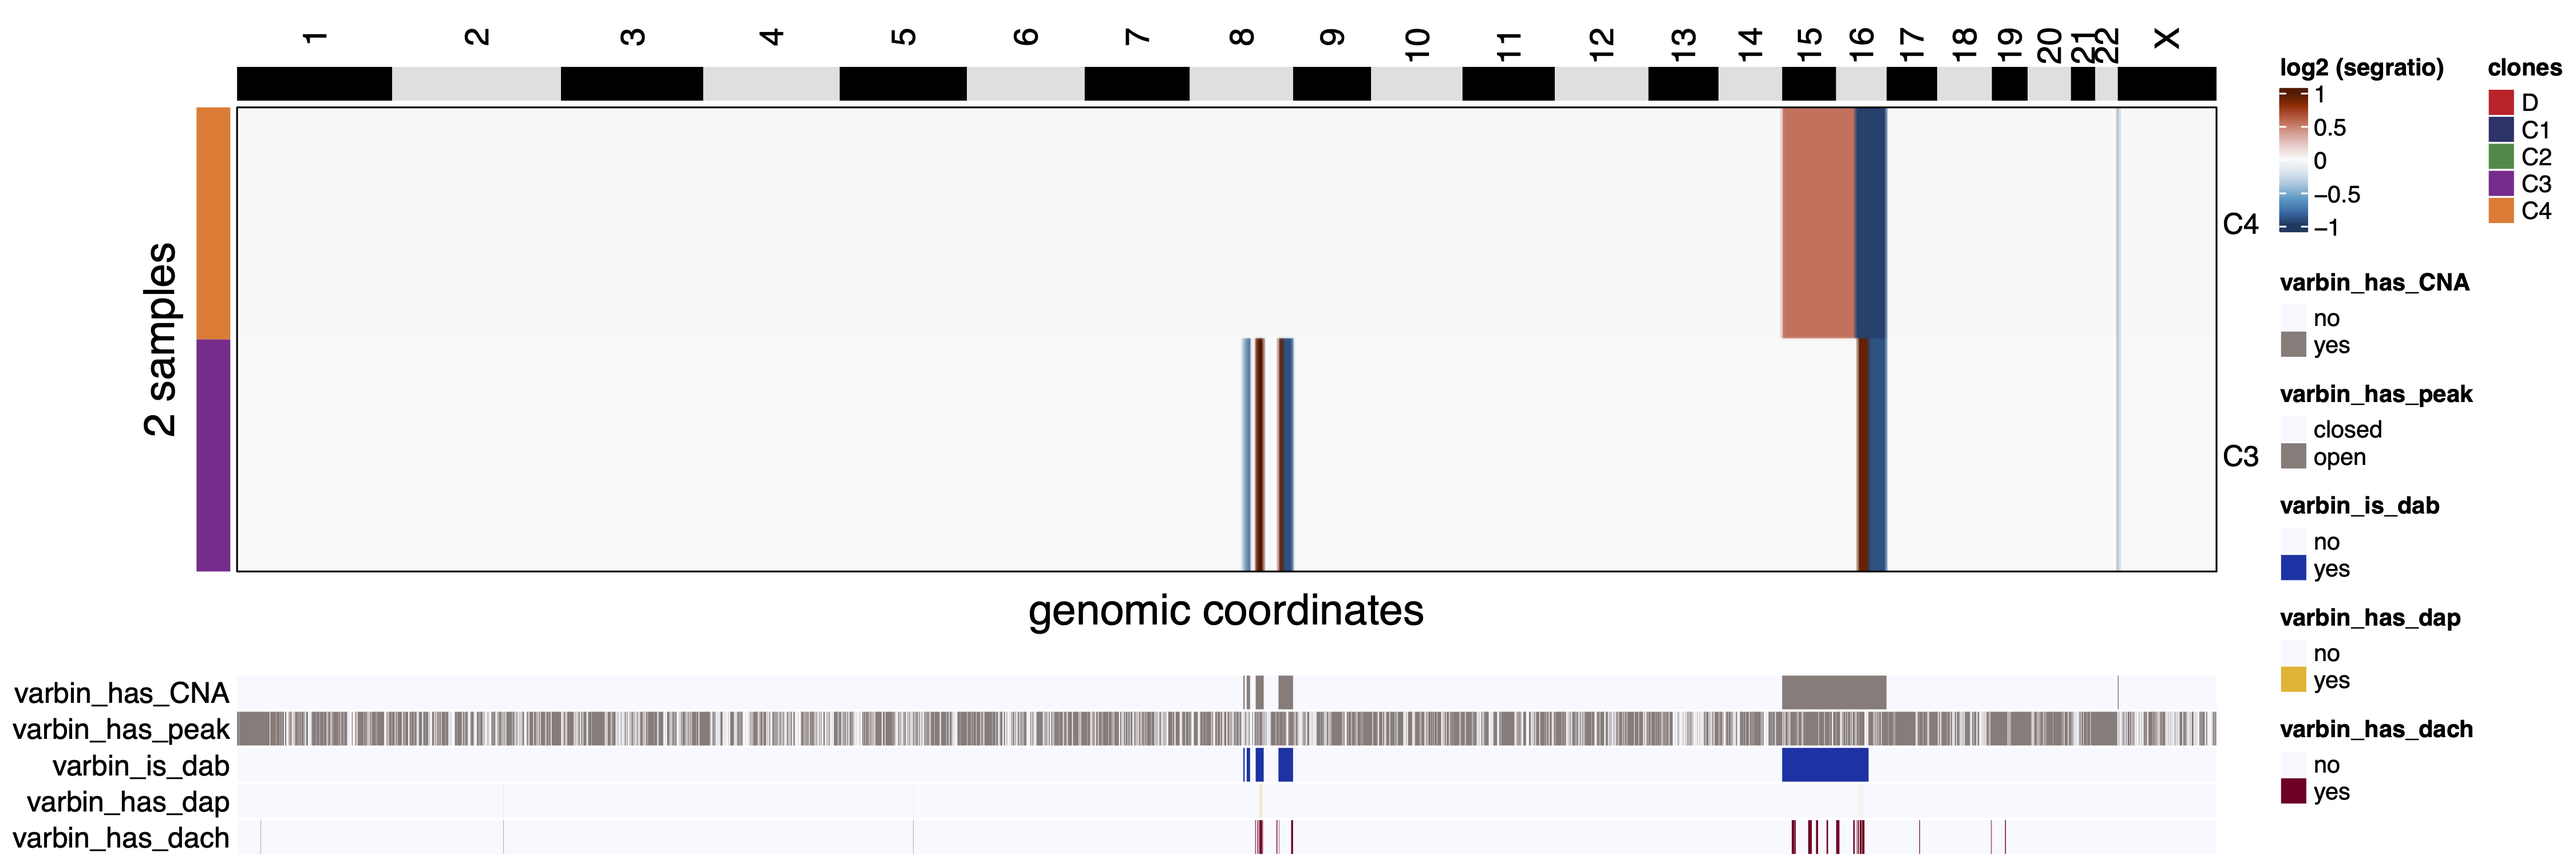
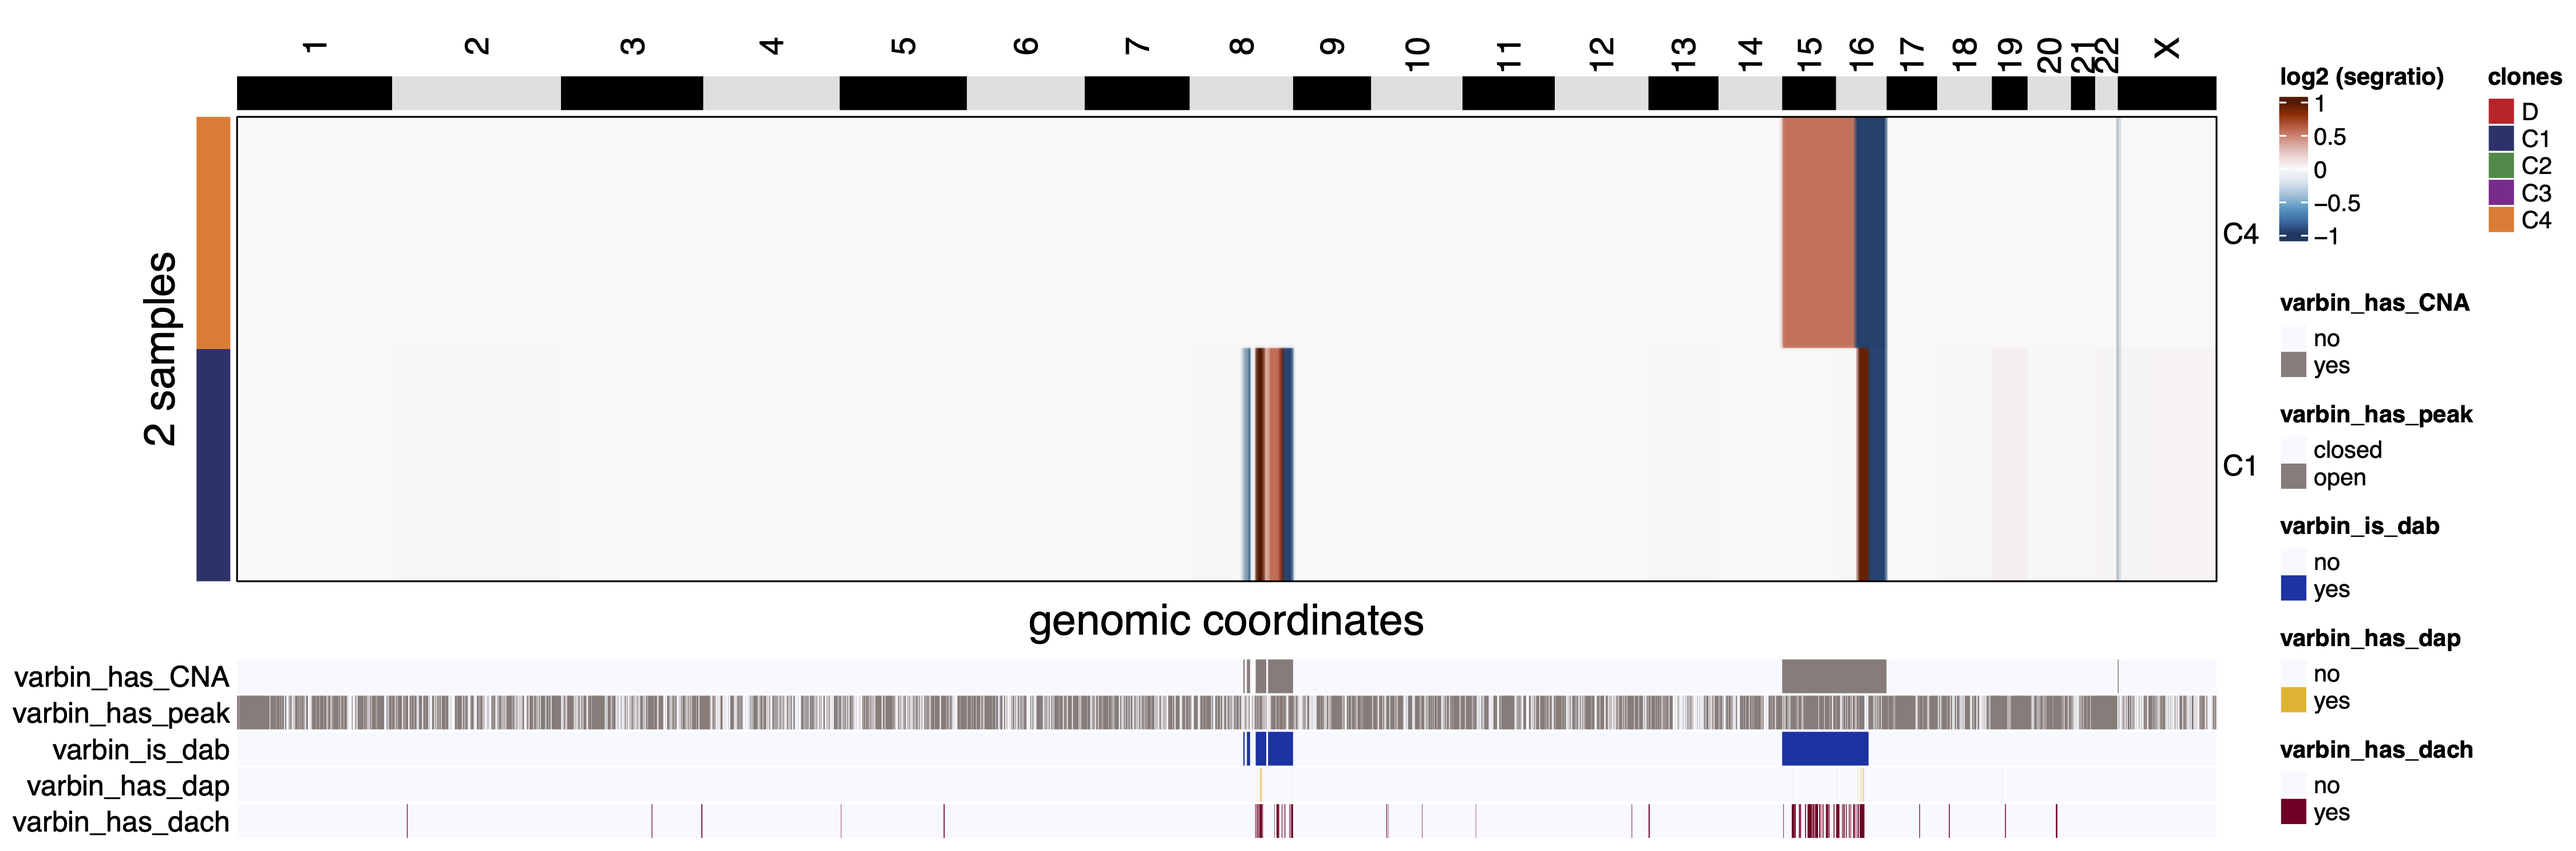
update md

diff --git a/tutorial/06.GtoE_EbyG.md b/tutorial/06.GtoE_EbyG.md
@@ -17,12 +17,12 @@ In the manuscript, we used 2 metrics to quantify the relationship of CNAs and ch
 - EbyG (epigenoypte-by-genotype): evaluating the proportion of changes of chromatin accessibility that are located in genomic CNA events. 
 
 
-Here, we will show an example of a comparison of two subclones. In the full R scripts, we compared all subclones with >=3 cells. 
+Here, we will show an example of a comparison of two subclones (C1 and C4). In the full R scripts, we compared all subclones with >=3 cells. 
 
 
 ## 1. Identifying the subclonal genomic bins (SGBs)
 
-In a comparison of two sublcones, identify the genomic bins showing different CNA events. 
+In a comparison of two sublcones C1 and C4, identify the genomic bins showing different CNA events. 
 
 ```R
 #------ DAB ------
